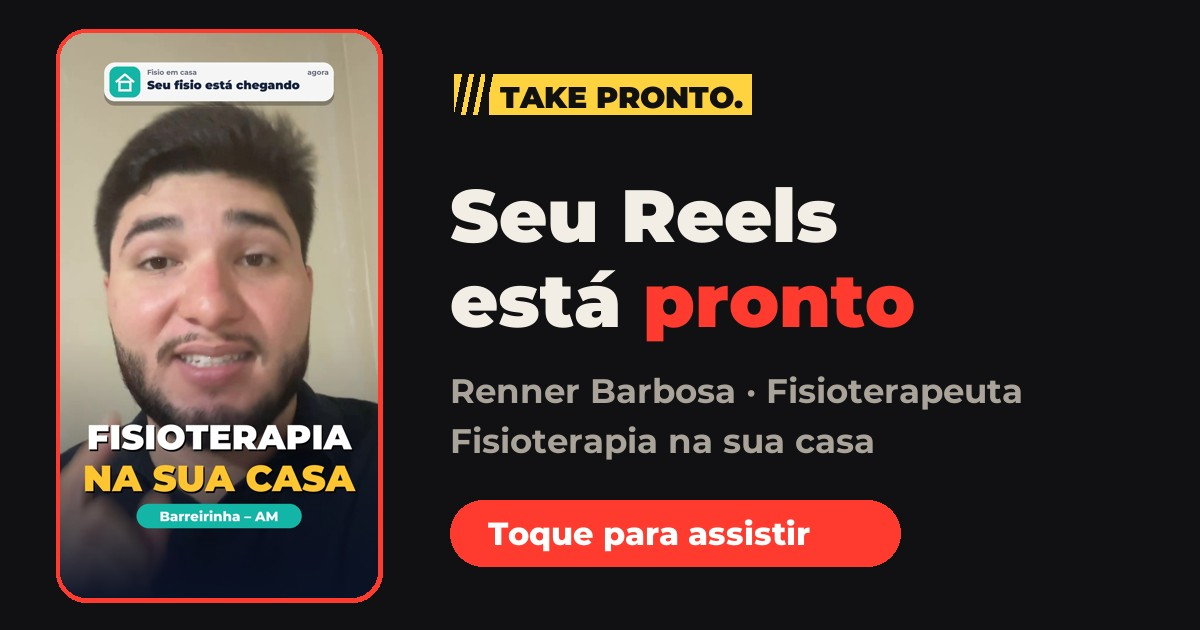
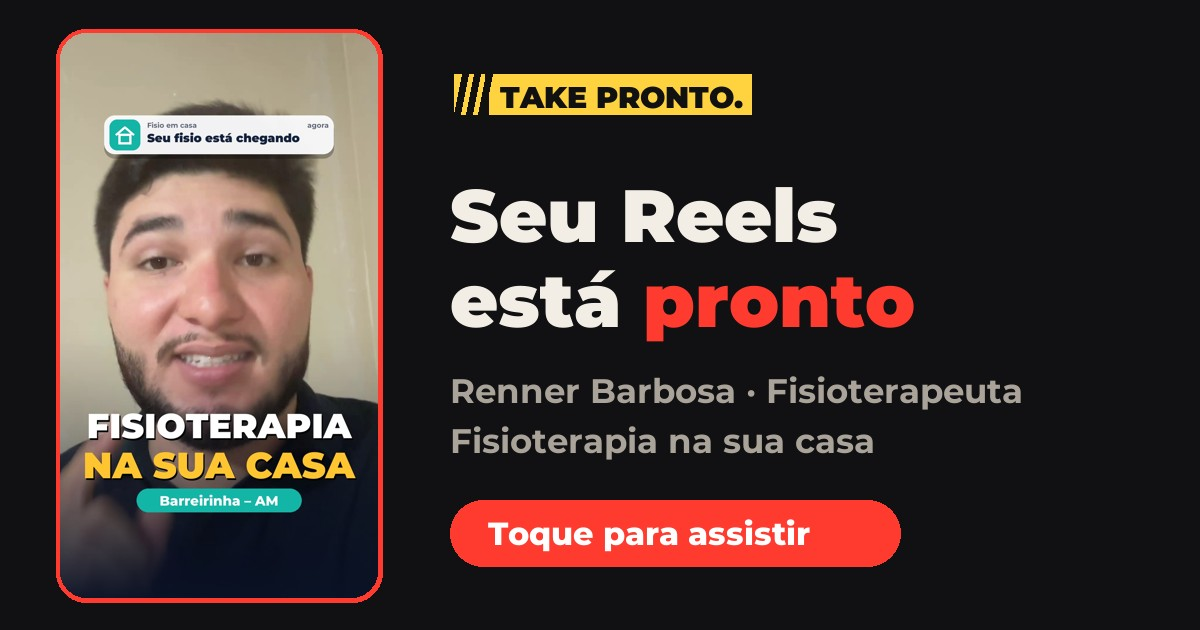
Renner Barbosa: capa nova ajustada para a grade do Instagram

Changed region(s): [[0.0617, 0.6333, 0.3083, 0.8444], [0.0617, 0.0905, 0.2775, 0.2714]]

diff --git a/renner-barbosa/apresentacao/index.html b/renner-barbosa/apresentacao/index.html
@@ -12,7 +12,7 @@
 <meta property="og:title" content="Renner Barbosa · Seu Reels está pronto">
 <meta property="og:description" content="Fisioterapia na sua casa, em Barreirinha. Toque para assistir e baixar.">
 <meta property="og:url" content="https://takepronto.com.br/renner-barbosa/apresentacao/">
-<meta property="og:image" content="https://takepronto.com.br/midia/renner/entrega-apresentacao-cartao.jpg?v=1">
+<meta property="og:image" content="https://takepronto.com.br/midia/renner/entrega-apresentacao-cartao.jpg?v=2">
 <meta property="og:image:width" content="1200">
 <meta property="og:image:height" content="630">
 <meta property="og:locale" content="pt_BR">
@@ -62,14 +62,14 @@ footer a{color:var(--paper)}
   <h1>Seu Reels está <span class="r">pronto</span>, Renner.</h1>
   <p class="lead">"Fisioterapia na sua casa, em Barreirinha". Assista, baixe no celular e poste.</p>
 
-  <div class="vid"><video id="video" src="../../midia/renner/renner-apresentacao-final.mp4" poster="../../midia/renner/renner-apresentacao-capa.jpg?v=1" controls playsinline preload="metadata"></video></div>
+  <div class="vid"><video id="video" src="../../midia/renner/renner-apresentacao-final.mp4" poster="../../midia/renner/renner-apresentacao-capa.jpg?v=2" controls playsinline preload="metadata"></video></div>
 
   <div class="btns">
     <a class="btn main" id="baixar" href="../../midia/renner/renner-apresentacao-final.mp4" download="Renner - Fisioterapia na sua casa.mp4">
       <svg viewBox="0 0 24 24" aria-hidden="true"><path fill="currentColor" d="M11 3h2v10.2l3.6-3.6 1.4 1.4-6 6-6-6 1.4-1.4 3.6 3.6z"/><path fill="currentColor" d="M4 18h16v2H4z"/></svg>
       Baixar o vídeo
     </a>
-    <a class="btn alt" href="../../midia/renner/renner-apresentacao-capa.jpg?v=1" download="Renner - Fisioterapia na sua casa - capa.jpg">Baixar a capa</a>
+    <a class="btn alt" href="../../midia/renner/renner-apresentacao-capa.jpg?v=2" download="Renner - Fisioterapia na sua casa - capa.jpg">Baixar a capa</a>
   </div>
   <div class="dica" id="dica"><b>No iPhone:</b> toque em "Baixar o vídeo". Se o vídeo abrir em outra tela, toque no ícone de compartilhar (o quadrado com a seta) e depois em <b>Salvar vídeo</b>. Ele vai para a sua galeria.</div>
 
